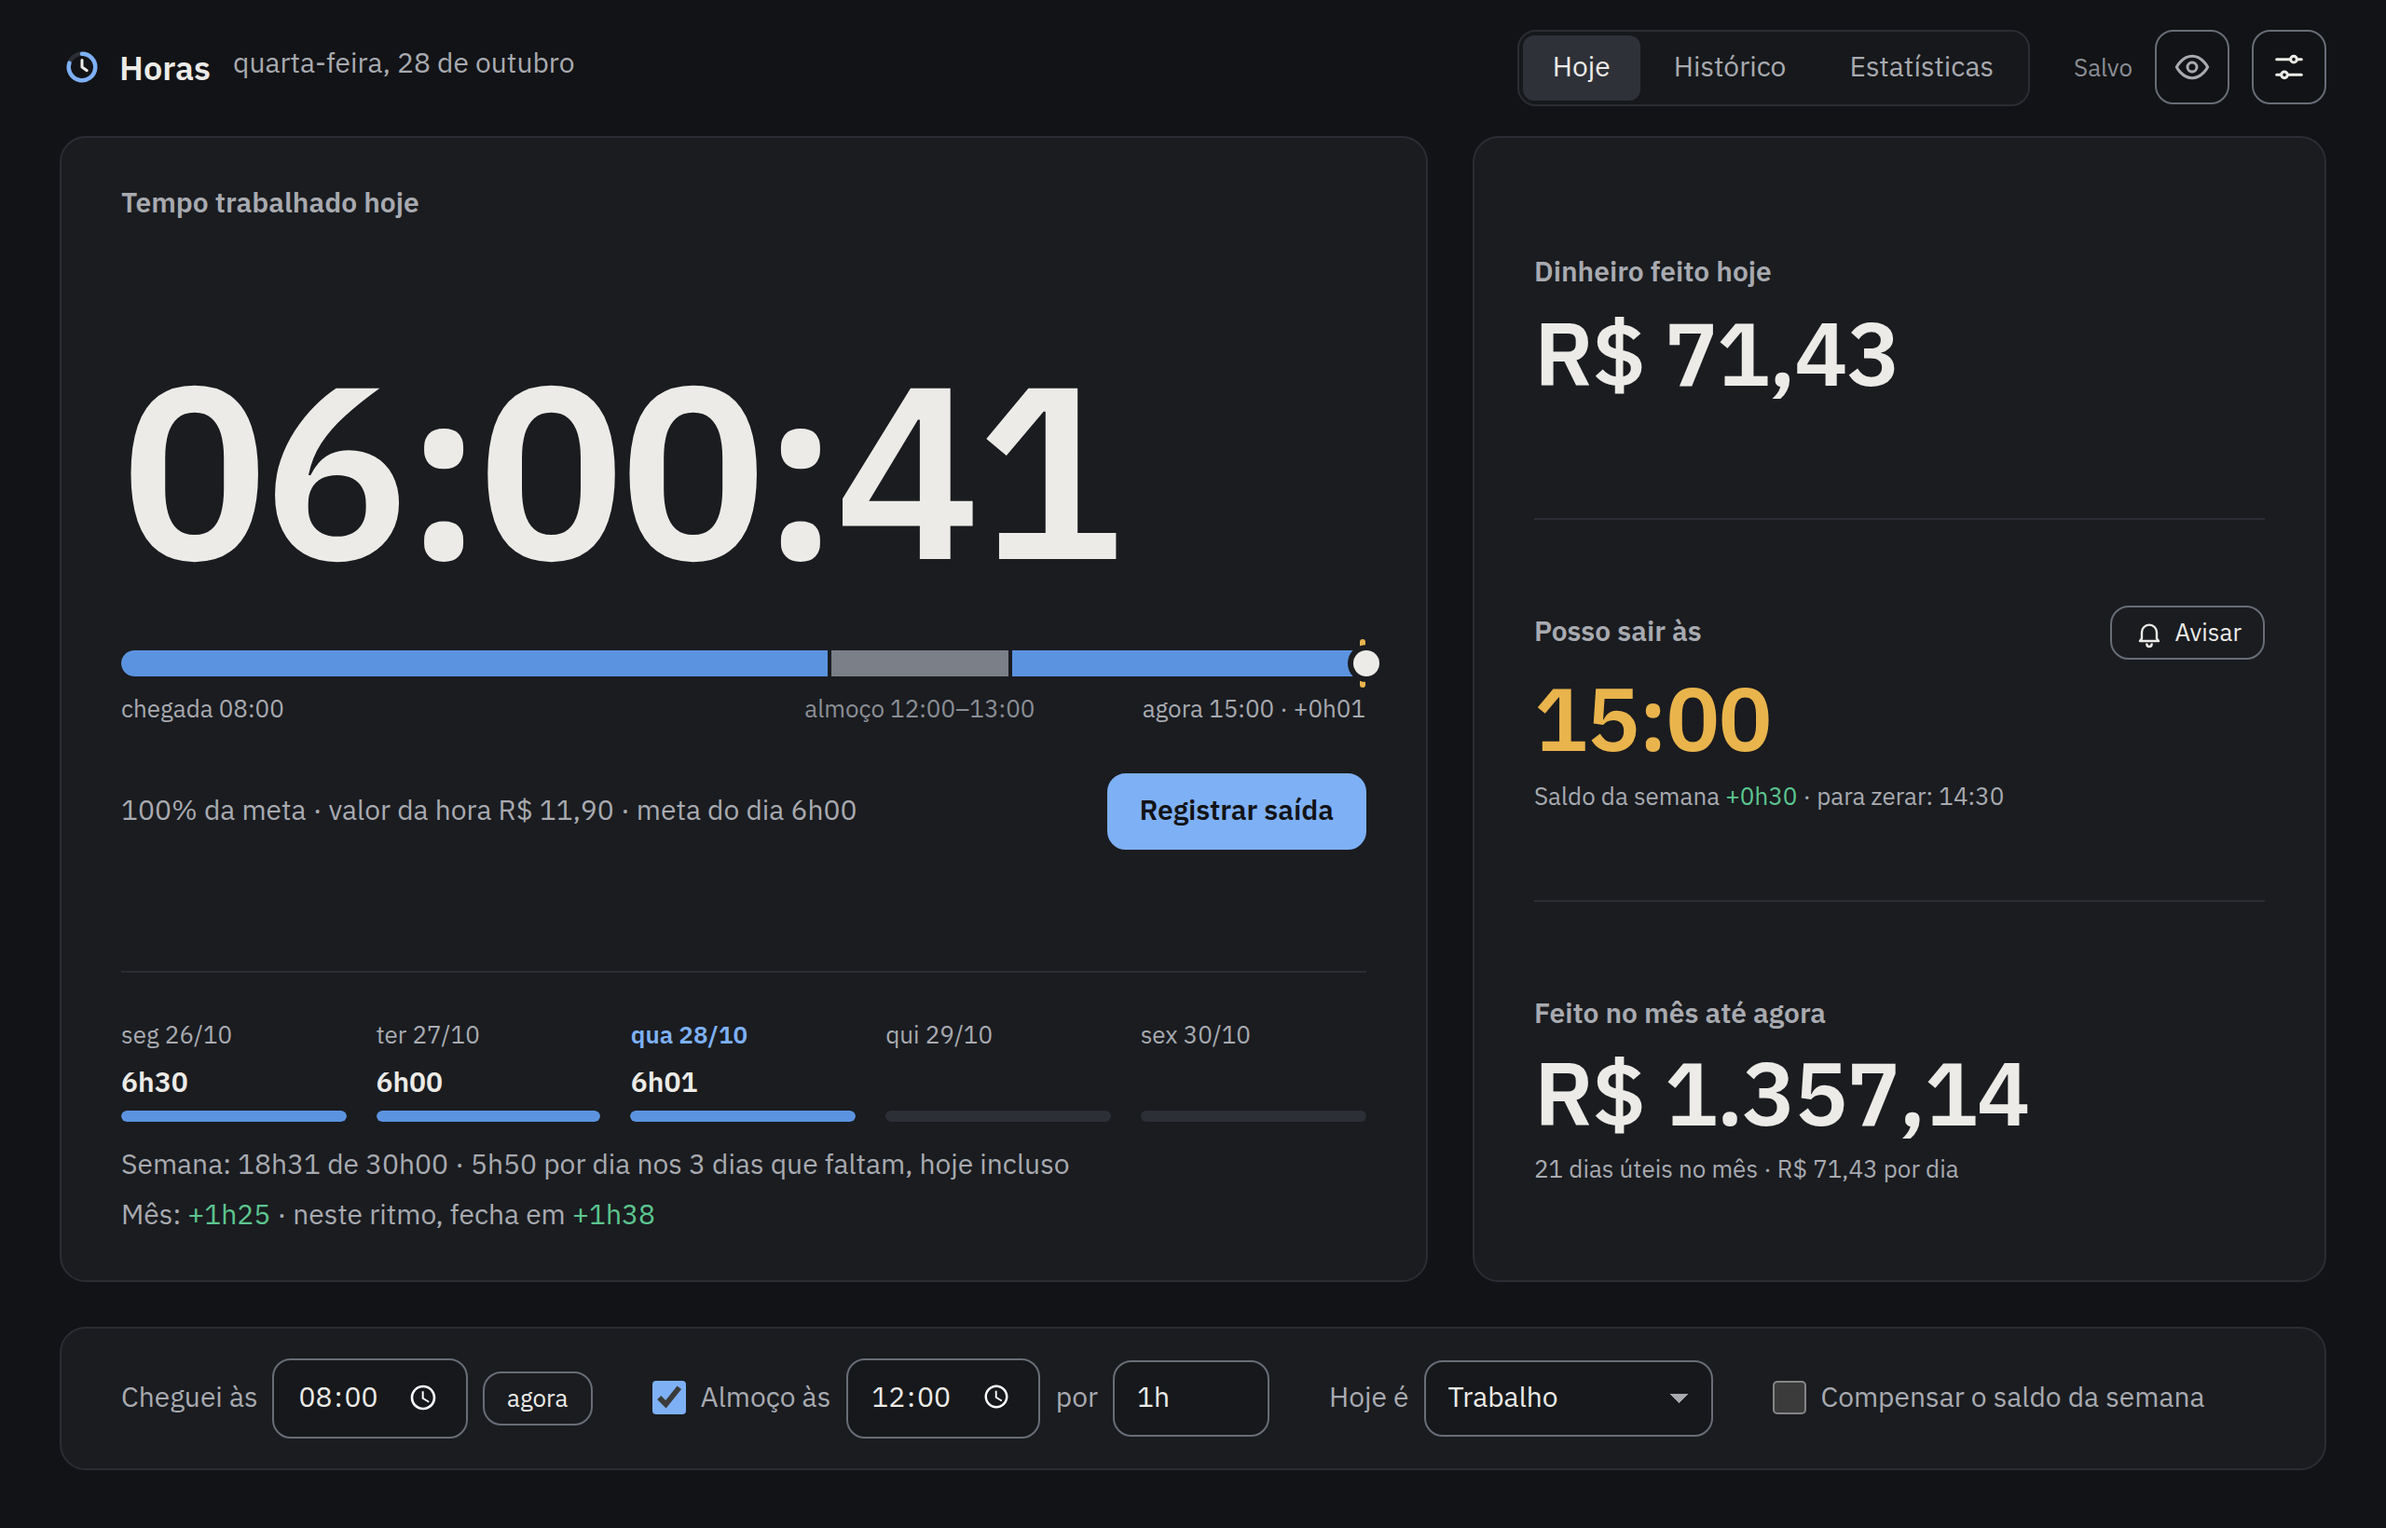
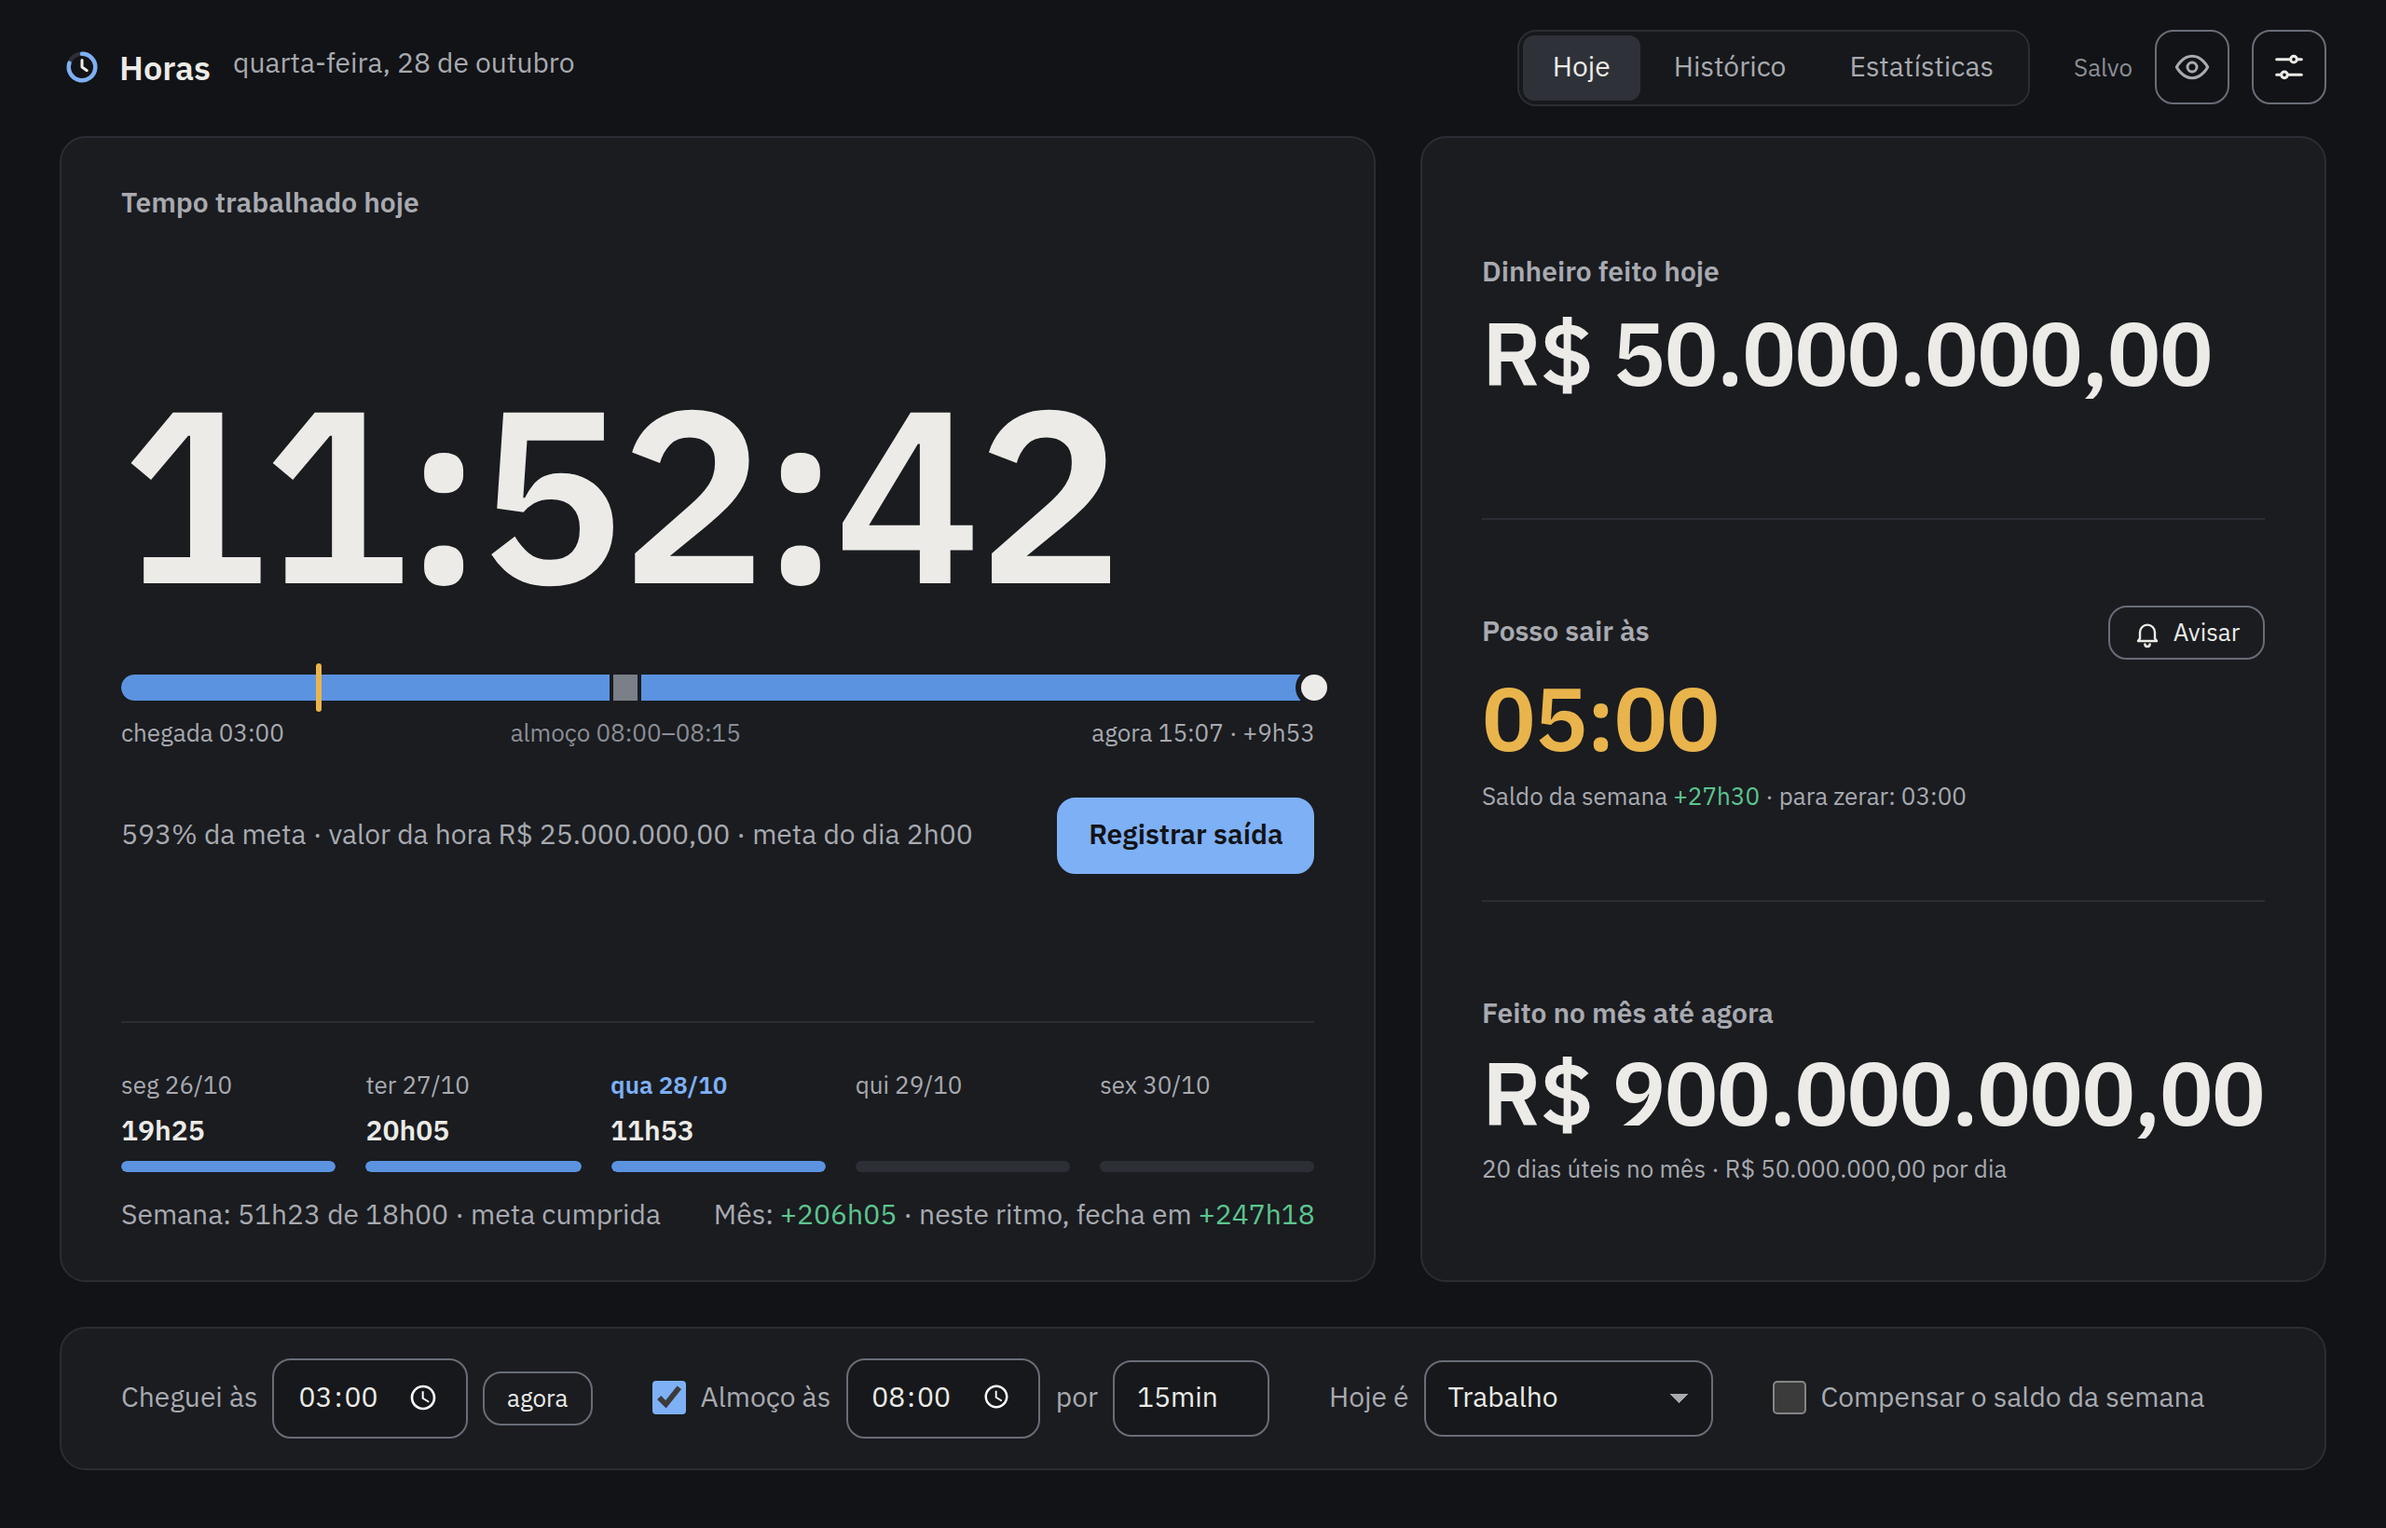
docs: add history, statistics and settings screenshots

diff --git a/README.md b/README.md
@@ -5,9 +5,9 @@ mês, num relance.** Horas é um controle de ponto pessoal para quem tem meta de
 horas por semana e uma bolsa ou salário mensal. Roda no seu computador, sem
 conta, sem nuvem e sem anúncio.
 
-![Tela Hoje no tema escuro: relógio do dia em 06:00:41, linha do tempo com chegada, almoço e agora, "Posso sair às 15:00", dinheiro feito hoje e no mês, e a semana dia a dia](.github/tela-hoje.png)
+![Tela Hoje no tema escuro: 11:52:42 trabalhadas, chegada às 03:00, "Posso sair às 05:00", R$ 50.000.000,00 feitos hoje e R$ 900.000.000,00 no mês](.github/tela-hoje.png)
 
-<sub>Captura com dados fictícios.</sub>
+<sub>Dados fictícios e exagerados de propósito: ninguém chega às 3 da manhã nem ganha R$ 50 milhões por dia. Ainda.</sub>
 
 ## O que faz
 
@@ -38,6 +38,20 @@ conta, sem nuvem e sem anúncio.
 - **Funciona sem o servidor.** A página abre mesmo com o servidor desligado e
   guarda tudo no navegador. Quando o servidor volta, os dados sobem sozinhos.
   Dá para instalar como aplicativo pelo Chrome.
+
+## Telas
+
+**Histórico**: cada dia editável, com o tipo, o almoço, o valor do dia e o saldo de cada semana.
+
+![Histórico no tema claro: dias de outubro com chegada, almoço, saída, horas trabalhadas, valor do dia e valor da hora, semanas de férias no meio](.github/tela-historico.png)
+
+**Estatísticas**: médias do período, horas por semana contra a meta, saldo acumulado e o expediente dia a dia.
+
+![Estatísticas no tema escuro: média de 19h40 por dia, chegada média 03:28, saída média 23:23, saldo de +724h00 e gráficos de barras e de linha](.github/tela-estatisticas.png)
+
+**Ajustes**: meta da semana, bolsa, moedas, idioma, tema, cores para daltonismo, feriados extras e backups.
+
+![Ajustes no tema escuro: 10 horas por semana, bolsa de 1000000000, real brasileiro, feriados extras como Dia da Mentira e a lista de backups](.github/tela-ajustes.png)
 
 ## Seus dados ficam com você
 
